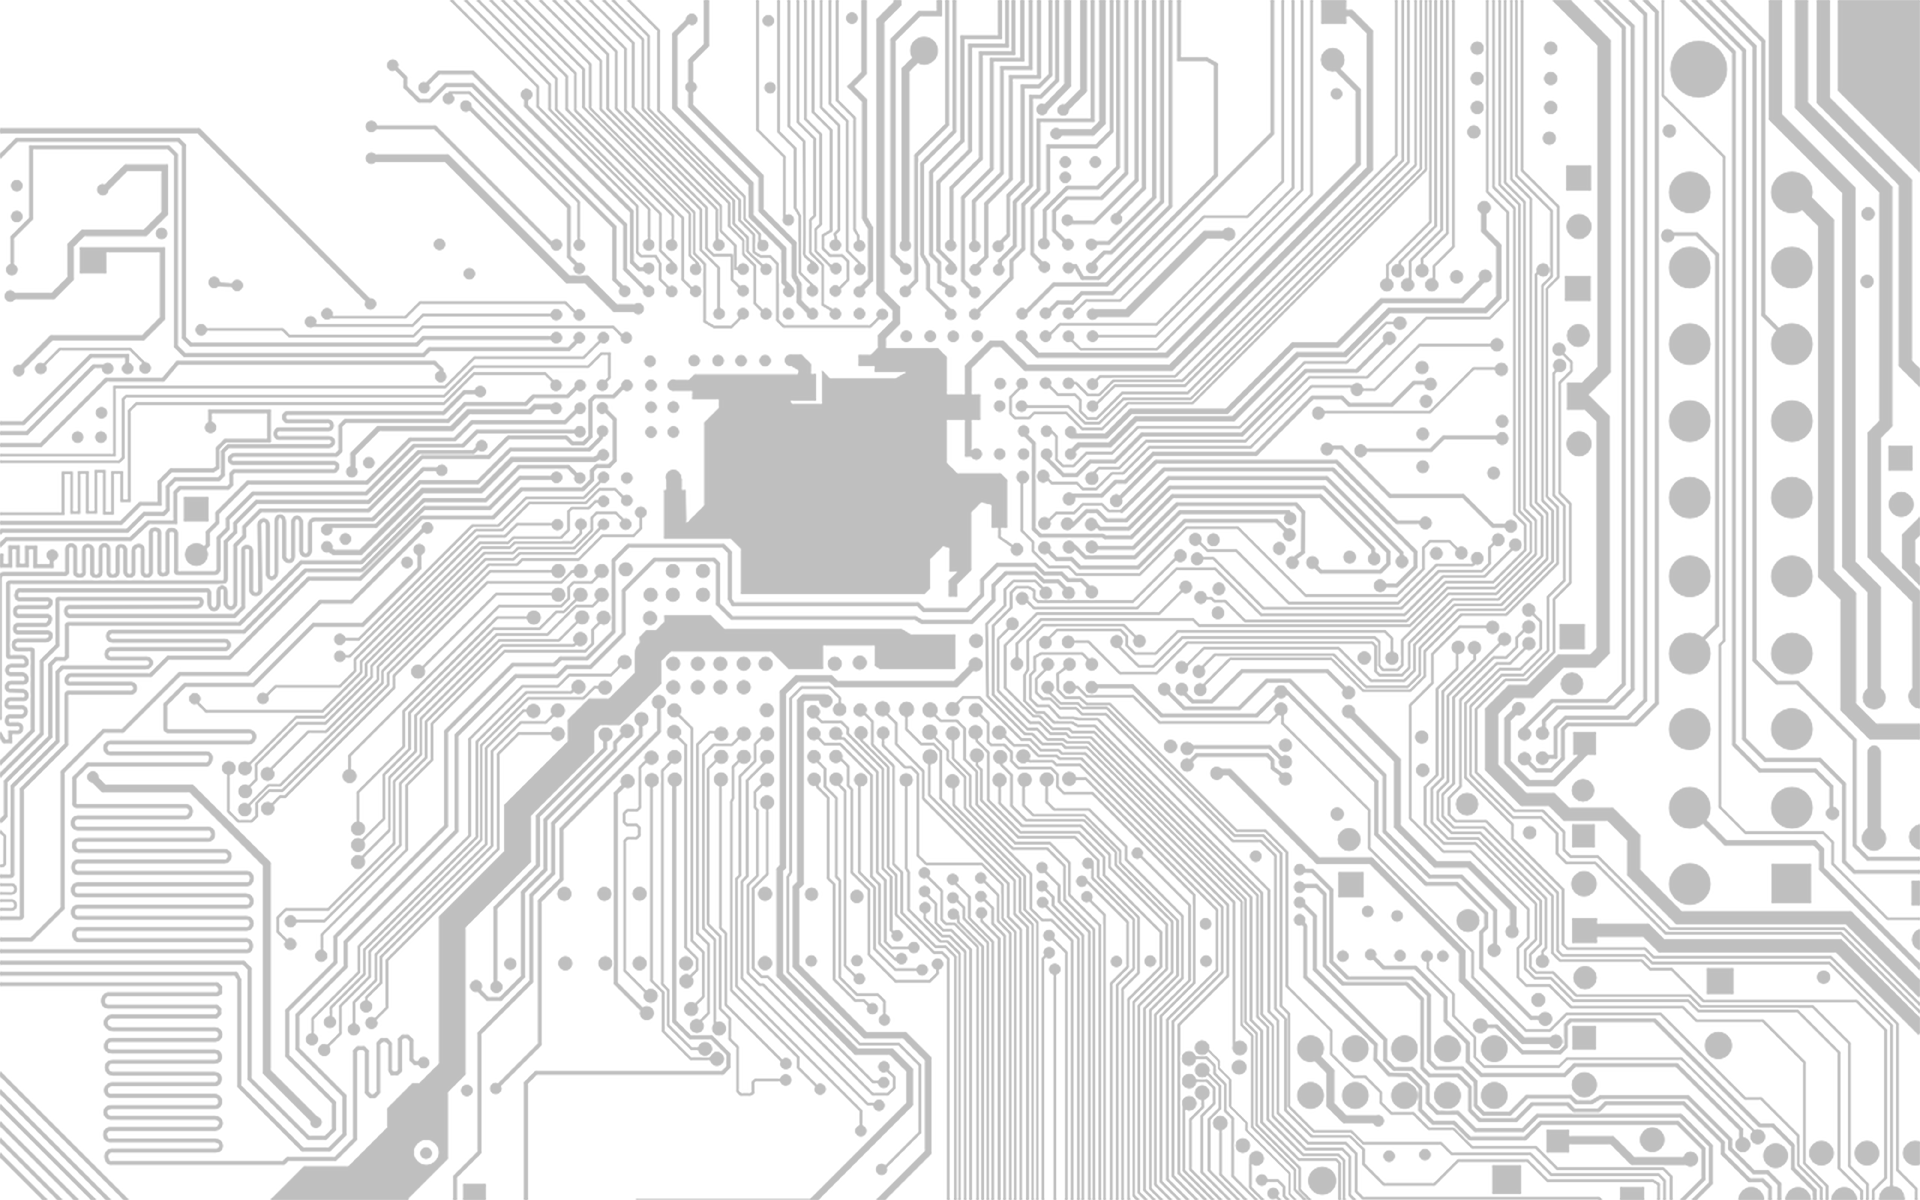
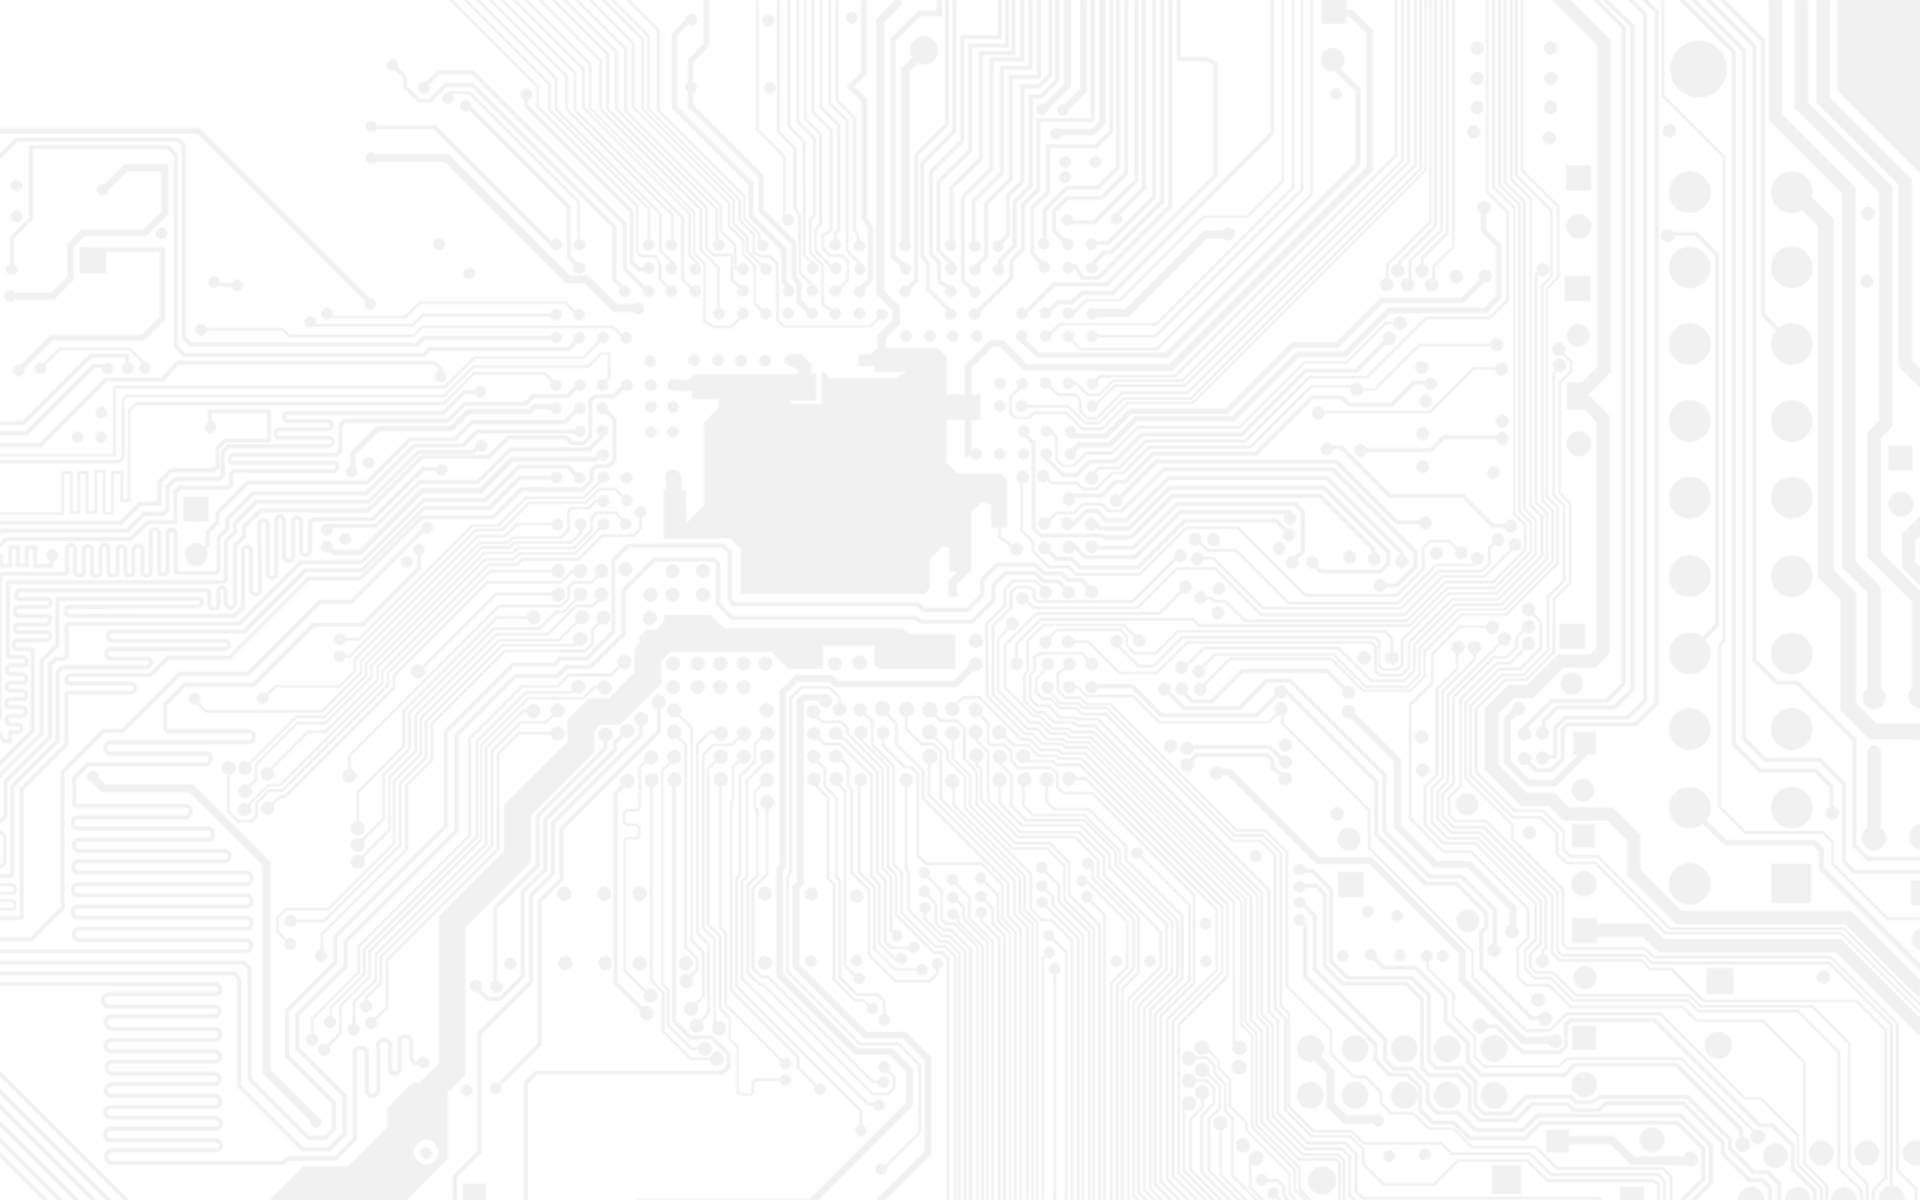
Minor changes to background, nav-bar and homepage

diff --git a/index.html b/index.html
@@ -39,7 +39,7 @@
           <span class="navbar-toggler-icon"></span>
         </button>
         <div class="collapse navbar-collapse" id="navbarSupportedContent">
-          <ul class="navbar-nav mx-auto mb-2 mb-lg-0">
+          <ul class="navbar-nav mx-auto mb-2 mb-lg-0 nav-pills">
             <li class="nav-item underline_hover">
               <a class="nav-link active" aria-current="page" href="#home"
                 >Home</a
@@ -103,8 +103,8 @@
     <div class="container-fluid page" id="home">
       <div id="intro">
         <p>Hi, my name is</p>
-        <h1>Song Vu Nguyen</h1>
-        <p>I am a computer engineer</p>
+        <h1 style="font-size: 300%;">Song Vu Nguyen</h1>
+        <p>I am a entry-level software engineer, web and game developer</p>
       </div>
     </div>
 
@@ -116,7 +116,7 @@
 
     <div class="container-fluid page" id="work">
       <p>Hi, my name is</p>
-      <h1>Song Vu Nguyen</h1>
+      <p>Song Vu Nguyen</p>
       <p>I am a computer engineer</p>
     </div>
 

diff --git a/css/custom.css b/css/custom.css
@@ -9,8 +9,9 @@
   background-position: center;
   background-size: cover;
 }
-.underline_hover:hover {
-  text-decoration: underline 3px white;
+
+.navbar-nav>li>a:focus, .navbar-nav>li>a:hover{
+  background-color: #0d6efd;
 }
 
 .navbar-nav > li {
@@ -20,6 +21,7 @@
 
 #intro {
   margin: auto;
+  font-size: 2vw;
 }
 
 .page {
